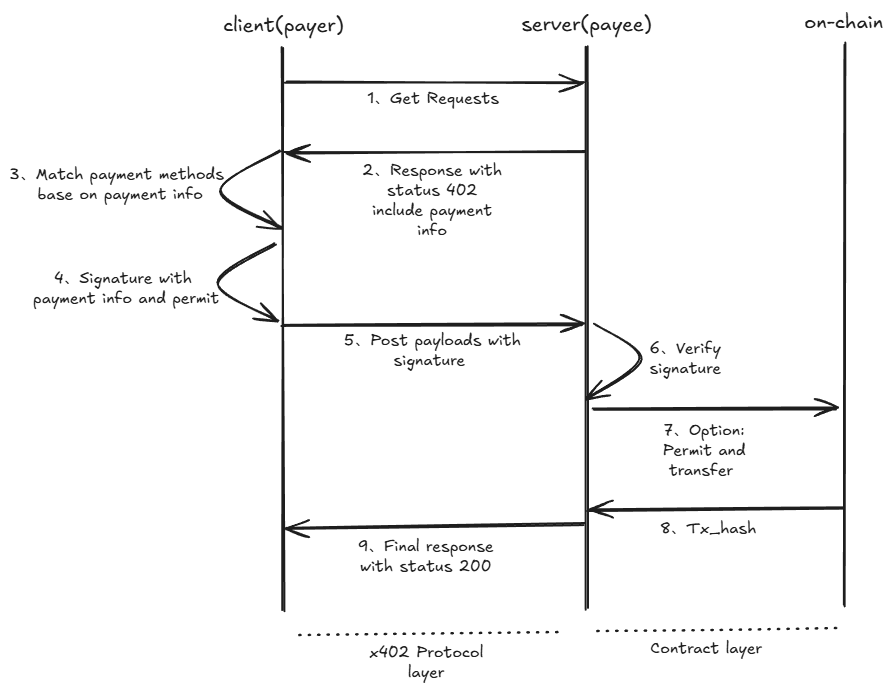
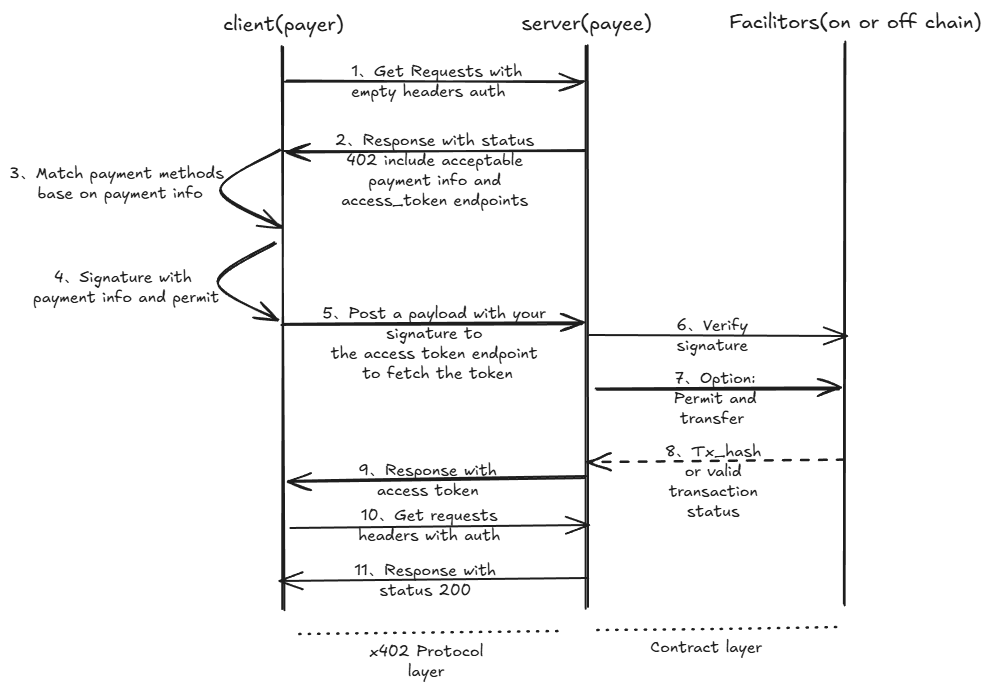
x402_mock: fix conception of workflow

Changed region(s): [[0.0, 0.0, 0.9978, 0.8801], [0.3326, 0.9104, 0.5442, 1.0], [0.6652, 0.8801, 0.8466, 0.9408]]

diff --git a/docs/x402.md b/docs/x402.md
@@ -1,47 +1,164 @@
-# X402: A Programmable Payment Flow from Client -> Server -> On-Chain
+# Coinbase's X402 May Not Be Enough?
 
 > This document describes a complete payment flow implementation and architecture vision based on the **X402 concept**.  
-> For code-level implementation details from initiation to payment verification, see: [x402_mock](../src/terrazip/x402_mock/README.md)
+> For code-level implementation details from initiation to payment verification, see: [x402_mock](../src/terrazip/x402_mock/README.cn.md) .
 
 ---
 
-## 1. Background and Motivation
+## Coinbase X402 Implementation Mechanism
 
-In Agent/Tool/LLM-driven applications, **"Request as Value"** is becoming a new norm:
+### Two-Request Process
+1. **First Request (without payment credential)**
+   - Client initiates resource access request
+   - Server returns `402 Payment Required`
+   - Response body contains payment scheme
 
-- Agents must complete payment/authorization before accessing resources
-- Servers want to charge fees **without custodying private keys**
-- Payment actions need to be composable, verifiable, and on-chain settleable
-
-Traditional solutions often face these issues:
-
-- ❌ Payment decoupled from requests, fragmented processes  
-- ❌ Server must trust Client or rely on centralized payment gateways  
-- ❌ Cannot naturally embed payments in Agent's automated decision chain  
-
-**X402**'s core idea is to integrate payment capability into a "protocolized request flow".
+2. **Second Request (with payment credential)**
+   - Client submits payment credential in headers based on returned information
+   - Server provides resource access after verifying credential
 
 ---
 
-## 2. What is X402 (Conceptual Explanation)
+## Aspects Worth Discussing in Existing Models
 
-X402 is not a specific implementation, but a **convention-based flow**:
+The following points are not intended to negate existing X402 implementations, but rather to highlight **potential considerations for real-world engineering and agent scenarios**.
 
-- Use `402 Payment Required` to express resource access preconditions  
-- Client actively initiates payment intent  
-- Server continues service after verifying payment capability/authorization  
+### Is Combining "Payment" and "Resource Retrieval" in One Request Too Heavy?
+- Single port handles both payment verification and resource access
+- Should we consider separating "I've already paid" and "I'm here to get content" for clearer processing?
 
-In Web2 semantics, 402 is an almost unused status code;  
-In Web3/Agent world, it perfectly serves as a **"programmable payment threshold"**.
+### What If Something Goes Wrong Mid-Request?
+- In current model:
+  Client pays first, then requests resources with credential
+- If during this process:
+  Network fluctuates
+  Server restarts
+  Agent crashes
+  Client can hardly determine if payment was recognized by server
+- Should we consider:
+  First confirming "I've paid"
+  Then proceeding with subsequent actions
+  This would make agents feel more secure
+
+### Does Only Considering On-Chain Payments Limit Scenarios?
+- Can we treat "payment methods" as replaceable modules upfront?
 
 ---
 
-## 3. Project Workflow Overview
+## Improved X402 Design (A Separable Approach)
 
-This project implements a complete three-stage flow:  
+While maintaining X402's core idea of "return 402 first, then guide client to complete payment", this section explores an implementation approach that **slightly separates payment process and resource access**.
+
+This separation isn't meant to complicate the process, but to clarify each step's responsibilities and make exception handling easier for agents in real-world operations.
+
+---
+
+### A More Explicit 402 Response Method
+
+When a client first requests resources but hasn't completed payment, the server still returns `402 Payment Required`, but in the response **clearly explains "how to pay next"**.
+
+```http
+HTTP/1.1 402 Payment Required
+WWW-Authenticate: Bearer realm="terrazip", token_type="access_token"
+Payment-Scheme: https://x402.terrazip/evm
+Payment-Endpoint: https://pay.terrazip/x402
+```
+
+The idea here is:
+
+* `402` still only expresses one thing: **Access not available yet**
+* Response headers don't directly require "pay now"
+* Instead, inform client:
+  * What payment methods can be used
+  * Where to complete payment
+
+This allows clients (especially agents) to treat "payment" as an **independent step**.
+
+---
+
+### Separating "Payment" and "Resource Retrieval"
+
+In this design, the system can be roughly divided into two parts:
+
+```mermaid
+graph LR
+Client -->|Request Resource| ResourceService
+ResourceService -->|402 + Payment Guidance| Client
+Client -->|Complete Payment| PaymentService
+PaymentService -->|Return access_token| Client
+Client -->|Carry access_token| ResourceService
+```
+
+This separation doesn't require physical different services or ports,
+more of a **logical division**:
+
+* **Payment Service**
+  * Only cares if payment succeeded
+  * Responsible for generating "resource access credential"
+* **Resource Service**
+  * Doesn't handle payment details directly
+  * Only verifies credential validity
+
+Can we keep complex state handling on the payment side,
+keeping the resource side as simple as possible?
+
+---
+
+### The Role of access_token (An Intermediate Result)
+
+In this flow, `access_token` resembles more:
+
+> A result of "this payment has been confirmed"
+
+Rather than:
+* User identity
+* Login status
+* Long-term credential
+
+It can have basic characteristics:
+* Has expiration time
+* Can only be used for specific resource types
+* Can be repeatedly verified
+* Won't cause double charges even if submitted repeatedly
+
+This way:
+* Client retries don't require re-payment
+* Server can continue processing after exception recovery
+
+---
+
+### Potential Benefits (Not Guarantees)
+
+This separated approach may bring engineering benefits:
+* **Clearer workflow**
+  Payment failures, successes, timeouts can all be tracked
+* **Less likely to double charge**
+  Since "payment" and "access" aren't tied to a single request
+* **Easier payment method expansion**
+  On-chain, off-chain, or internal balances can all be handled on payment side
+* **Agent-friendly**
+  Agents can treat payment as recoverable step, not one-time risk
+
+---
+
+### Summary
+
+This improvement doesn't aim to negate existing X402 concepts, but tries to answer a question:
+
+> When payments start having states,
+> When requests may be retried,
+> When callers become agents,
+> Can we make the payment step
+> "Stand more firmly" in the workflow?
+
+---
+
+## Project Workflow Overview
+
+This project implements a complete three-stage flow:
 ![Workflow](/assets/work_flow.png)
 
 ## Further Reading
 
-- Coinbase's exploration and implementation of X402:  
+- Coinbase's X402 exploration and implementation:
   https://github.com/coinbase/x402

diff --git a/docs/x402.cn.md b/docs/x402.cn.md
@@ -1,46 +1,171 @@
-# X402：从 Client -> Server -> On-Chain 的可编程支付流程设想
+# Coinbase的X402可能还不够？
 
 > 本文档用于说明一个基于 **X402 思想** 的完整支付流程实现与架构设想。  
 > 代码层面的具体实现方式，从发起到收款验证，详见： [x402_mock](../src/terrazip/x402_mock/README.cn.md) 。
 
 ---
 
-## 1. 背景与动机
+## Coinbase X402实现机制
 
-在 Agent / Tool / LLM 驱动的应用中，**“请求即价值”** 正逐渐成为一种常态：
+### 两次请求流程
+1. **首次请求（不带支付凭证）**
+   - 客户端发起资源访问请求
+   - 服务端返回 `402 Payment Required`
+   - 响应body包含支付方案(scheme)
 
-- Agent 访问资源前，需要先完成支付或授权
-- Server 希望在**不托管私钥**的前提下完成收费
-- 支付行为需要可组合、可验证、可链上结算
-
-传统方案往往存在以下问题：
-
-- ❌ 支付与请求解耦，流程割裂  
-- ❌ Server 需要信任 Client 或依赖中心化支付网关  
-- ❌ 无法在 Agent 自动决策链路中自然嵌入支付  
-
-**X402** 的核心思想，是将支付能力纳入一次「协议化的请求流程」中。
+2. **二次请求（携带支付凭证）**
+   - 客户端根据返回信息在headers中提交支付凭证
+   - 服务端验证凭证后提供资源访问
 
 ---
 
-## 2. 什么是 X402（概念性说明）
+## 现有模式的一些值得讨论的地方
 
-X402 并不是某一个具体实现，而是一种**约定式流程**：
+下面并不是对现有 X402 实现的否定，而是一些在实际工程和 agent 场景中，**可能值得进一步思考的问题**。
 
-- 通过 `402 Payment Required` 表达资源访问前置条件  
-- 由 Client 主动发起支付意图  
-- Server 验证支付能力 / 授权后继续服务  
+### 请求里同时放“付钱”和“拿资源”，是不是有点重？
+- 单一端口同时处理支付验证与资源访问
+- 是不是可以考虑，把 “我已经付过钱了” 和 “我现在来拿内容” 这两件事稍微拆开来看，会更清楚一些？
 
-在 Web2 语义中，402 是一个几乎未被使用的状态码；  
-而在 Web3 / Agent 世界中，它恰好可以承载 **“可编程支付门槛”** 的角色。
+### 如果请求中途出问题，会不会让客户端有点“慌”？
+- 在当前模式下
+  客户端先付钱，再带着凭证请求资源
+- 如果这个过程中:
+  网络抖了一下
+  服务端刚好重启
+  agent 自己 crash 了
+  客户端其实很难判断, 刚刚那笔钱，到底算不算已经被服务端认了
+- 是不是可以考虑：
+  先有一个“我已经付过钱”的确认
+  再去做后面的事情
+  这样对 agent 来说，心里会更踏实一点
+
+### 只考虑链上支付，会不会限制了一些场景？
+- 是不是可以提前把“支付方式”当成一个可替换的模块
+
 
 ---
 
-## 3. 本项目的整体流程概览
+## 改进型 X402 设计（一种可拆开的思路）
+
+在延续 X402 「先返回 402，再引导客户端完成支付」这一基本思想的前提下，这里尝试探讨一种**把支付过程和资源访问稍微拆开**的实现方式。
+
+这种拆分并不是为了复杂化流程，而是希望让每一步的职责更清楚，也让 agent 在实际运行时更容易处理异常情况。
+
+---
+
+### 一种更明确的 402 响应方式
+
+当客户端首次请求资源、但尚未完成支付时，服务端仍然返回 `402 Payment Required`，但在响应中**尽量把“下一步该怎么付钱”说清楚**。
+
+```http
+HTTP/1.1 402 Payment Required
+WWW-Authenticate: Bearer realm="terrazip", token_type="access_token"
+Payment-Scheme: https://x402.terrazip/evm
+Payment-Endpoint: https://pay.terrazip/x402
+```
+
+这里的想法是：
+
+* `402` 仍然只表达一件事：**现在还不能访问**
+* response header 里不直接要求“你现在就付”
+* 而是告诉客户端：
+
+  * 可以用什么支付方式
+  * 去哪个地方完成支付
+
+这样客户端（尤其是 agent）可以把“付钱”当成一个**独立步骤**来处理。
+
+---
+
+### 把“付钱”和“拿资源”稍微拆开
+
+在这种设计里，可以把系统大致分成两块来看：
+
+```mermaid
+graph LR
+Client -->|请求资源| ResourceService
+ResourceService -->|402 + 支付指引| Client
+Client -->|完成支付| PaymentService
+PaymentService -->|返回 access_token| Client
+Client -->|携带 access_token| ResourceService
+```
+
+这里的拆分并不要求物理上一定是不同的服务或端口，
+更多是一种**逻辑上的分工**：
+
+* **Payment Service**
+
+  * 只关心钱有没有付成功
+  * 负责生成一个“可以用来访问资源的凭证”
+* **Resource Service**
+
+  * 不直接碰支付细节
+  * 只验证凭证是否有效
+
+是不是可以把复杂的状态处理，
+都留在支付这一侧，
+让资源侧尽量保持简单？
+
+---
+
+### access_token 的角色（一个中间结果）
+
+在这个流程里，`access_token` 更像是：
+
+> “这次支付已经被确认过了”的一个结果
+
+而不是：
+
+* 用户身份
+* 登录态
+* 长期凭证
+
+它可以具备一些很朴素的特性：
+
+* 有有效期
+* 只能用于某一类资源
+* 可以被重复校验
+* 即使重复提交，也不会再次扣款
+
+这样一来：
+
+* 客户端重试请求，不需要重新付钱
+* 服务端异常恢复后，也能继续认账
+
+---
+
+### 一些可能带来的好处（而不是保证）
+
+这种拆开的方式，可能会带来一些工程上的便利：
+
+* **流程更清楚**
+  付钱失败、成功、超时，都有地方可查
+* **更不容易重复扣款**
+  因为“扣钱”和“访问”不再绑死在一次请求里
+* **更容易扩展支付方式**
+  链上、链下，甚至内部余额，都可以放在支付侧处理
+* **对 agent 更友好**
+  agent 可以把支付当成一个可恢复的步骤，而不是一次性的冒险动作
+
+---
+
+### 小结
+
+这里的改进并不是要否定现有的 X402 思路，而是尝试回答一个问题：
+
+> 当支付开始有状态、
+> 当请求可能被重试、
+> 当调用者变成 agent，
+> 我们是不是可以让支付这一步，
+> 在流程中“站得更稳一点”？
+
+---
+
+## 本项目的整体流程概览
 
 本项目实现了一个完整的三段式流程：
 ![Workflow](/assets/work_flow.png)
-
 
 ## 延伸阅读
 
